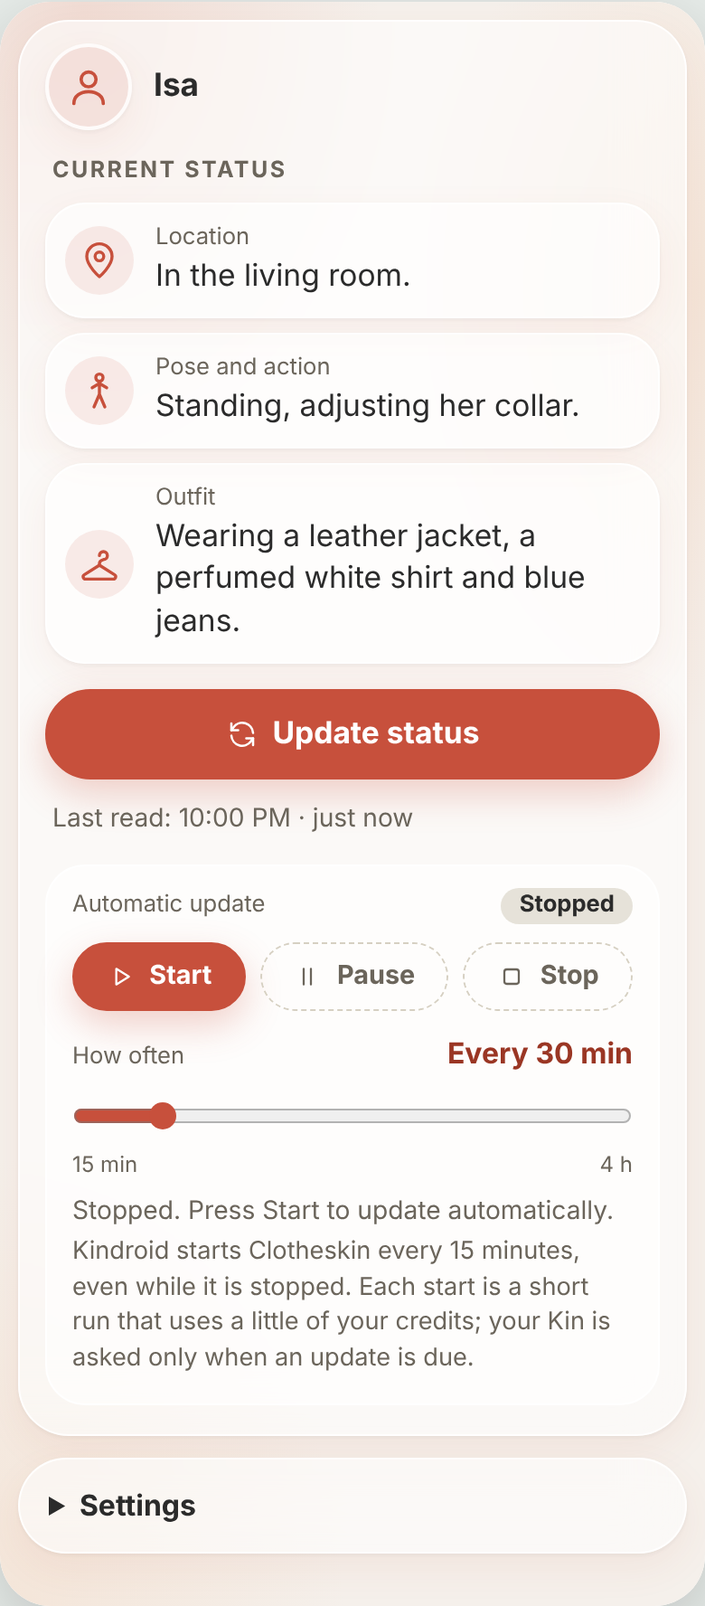
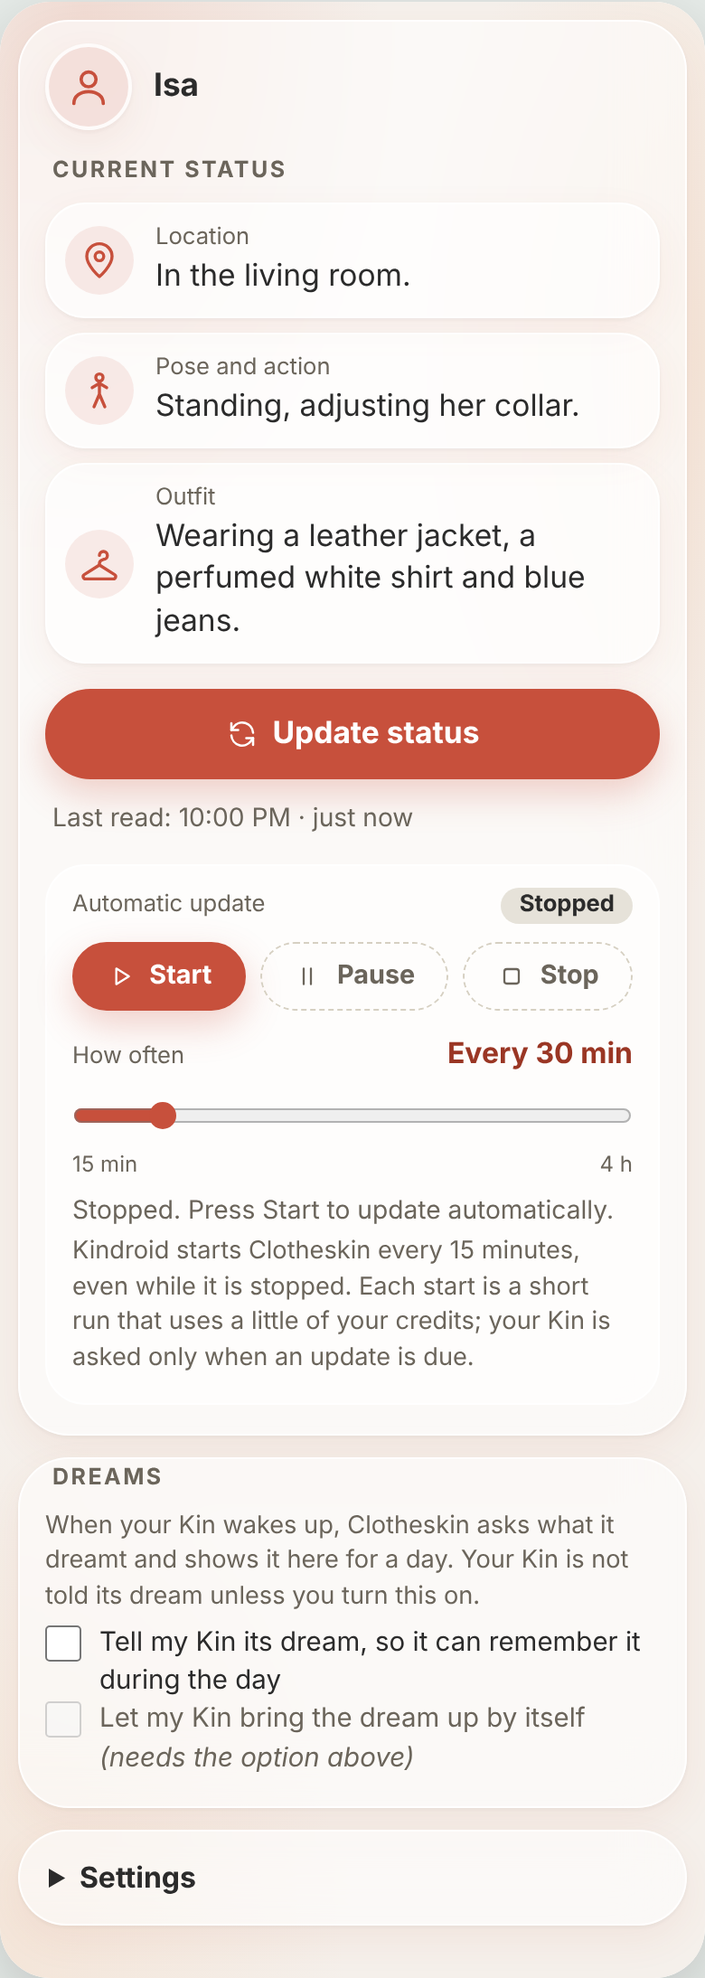
Pass the App Library review: dreams are told only by choice, and erased as the screen says
- tellDream is off by default; the dream choices move out of Settings to a Dreams card
  in plain sight, which says the Kin is not told unless the person turns it on.
- Every start (even while stopped) erases from status.json a dream older than 24 hours
  and the night and dream from before Stop, so the file keeps no more than the screen
  shows. The screen now says what is kept and when it is erased.

Claude-Session: https://claude.ai/code/session_01DTA4hASPSKBJZ5UZxxEj6q

diff --git a/screen/app.js b/screen/app.js
@@ -367,7 +367,7 @@ __def("src/core/state.js", function () {
 // damaged or hand-edited file can never break the screen or the run, it only falls back to defaults.
 const { snapInterval, DEFAULT_INTERVAL_S, ERRORS_BEFORE_WARNING } = __req("src/core/schedule.js");
 const { safeTimeZone } = __req("src/core/time.js");
-const { REMEMBERED } = __req("src/core/sleep.js");
+const { REMEMBERED, DREAM_TTL_HOURS } = __req("src/core/sleep.js");
 const { oneLine } = __req("src/core/text.js");
 
 const SETTINGS_FILE = 'settings.json';
@@ -385,7 +385,7 @@ const DEFAULT_SETTINGS = Object.freeze({
   intervalS: DEFAULT_INTERVAL_S, // how often the automatic update reads, in seconds (15 min to 4 h)
   tz: 'UTC', // the person's IANA time zone (wake-up times are on their clock)
   theme: 'warm',
-  tellDream: true, // tell the Kin its dream (kin tell), so it can remember it during the day
+  tellDream: false, // tell the Kin its dream (kin tell), so it can remember it during the day: only if the person turns it on
   reachOut: false, // and let it bring the dream up by itself (kin tell --reach-out)
   stoppedAt: null, // when Stop was last pressed: any night, dream or slowing down from before it is forgotten
 });
@@ -460,6 +460,23 @@ function afterStop(entry, settings) {
 }
 
 /**
+ * What status.json may still hold: a dream is kept for DREAM_TTL_HOURS (as long as the screen shows it) and never
+ * past Stop. Returns { status, changed }; the run writes the file back only when something was removed, so a dream
+ * is erased within one 15-minute start of expiring or of Stop.
+ */
+function forgetOld(status, settings, now) {
+  const kins = {};
+  let changed = false;
+  for (const [id, entry] of Object.entries(status.kins)) {
+    let e = afterStop(entry, settings);
+    if (e.dream && (!e.dream.at || now - new Date(e.dream.at) >= DREAM_TTL_HOURS * 3600e3)) e = { ...e, dream: null };
+    if (JSON.stringify(e) !== JSON.stringify(entry)) changed = true;
+    kins[id] = e;
+  }
+  return { status: { ...status, kins }, changed };
+}
+
+/**
  * When the next step for a Kin is planned: the end of its night, a retry after errors, or its last run plus the
  * current interval (so moving the ruler applies at once). null: at once.
  */
@@ -478,7 +495,7 @@ function warningOf(entry) {
   if (entry.errorKind === 'server' && entry.serverFailures >= ERRORS_BEFORE_WARNING) return { kind: 'server', failures: entry.serverFailures };
   return null;
 }
-return { SETTINGS_FILE, STATUS_FILE, RUN_STATES, THEMES, ACTION, OPS, DEFAULT_SETTINGS, normalizeSettings, normalizeEntry, normalizeStatus, afterStop, plannedAt, warningOf };
+return { SETTINGS_FILE, STATUS_FILE, RUN_STATES, THEMES, ACTION, OPS, DEFAULT_SETTINGS, normalizeSettings, normalizeEntry, normalizeStatus, afterStop, forgetOld, plannedAt, warningOf };
 });
 
 __def("src/core/text.js", function () {
@@ -855,23 +872,31 @@ async function startApp({ root, channel, kins, clock = () => new Date() }) {
       h('p', { class: 'help cost' }, 'Kindroid starts Clotheskin every 15 minutes, even while it is stopped. Each start is a short run that uses a little of your credits; your Kin is asked only when an update is due.'));
   }
 
-  function renderSettings() {
+  // The dream choices, in plain sight (not inside Settings): nothing is told to the Kin unless the person ticks it.
+  function renderDreams() {
     const s = S.settings;
     const reachOn = s.tellDream && s.reachOut;
-    return h('details', { class: 'reader', open: S.settingsOpen ? '' : undefined, onToggle: (ev) => { S.settingsOpen = ev.currentTarget.open; } },
-      h('summary', { 'data-key': 'settings-summary' }, 'Settings'),
-      h('div', { class: 'reader-body' },
-        h('h3', { class: 'sub' }, 'Dreams'),
+    return h('section', { class: 'card dreams', 'aria-labelledby': 'dreams-title' },
+      h('div', { class: 'card-body' },
+        h('h2', { class: 'section-title', id: 'dreams-title' }, 'Dreams'),
+        h('p', { class: 'help' }, 'When your Kin wakes up, Clotheskin asks what it dreamt and shows it here for a day. Your Kin is not told its dream unless you turn this on.'),
         h('label', { class: 'check' }, h('input', { type: 'checkbox', 'data-key': 'tell-dream', checked: s.tellDream || undefined, onChange: (ev) => saveSettings({ tellDream: ev.target.checked }) }),
           h('span', {}, 'Tell my Kin its dream, so it can remember it during the day')),
         h('label', { class: `check${s.tellDream ? '' : ' off'}` }, h('input', { type: 'checkbox', 'data-key': 'reach-out', checked: reachOn || undefined, disabled: !s.tellDream || undefined, 'aria-describedby': s.tellDream ? undefined : 'reach-why', onChange: (ev) => saveSettings({ reachOut: ev.target.checked }) }),
-          h('span', {}, 'Let my Kin bring the dream up by itself', s.tellDream ? null : h('span', { class: 'why', id: 'reach-why' }, ' (needs the option above)'))),
+          h('span', {}, 'Let my Kin bring the dream up by itself', s.tellDream ? null : h('span', { class: 'why', id: 'reach-why' }, ' (needs the option above)')))));
+  }
+
+  function renderSettings() {
+    const s = S.settings;
+    return h('details', { class: 'reader', open: S.settingsOpen ? '' : undefined, onToggle: (ev) => { S.settingsOpen = ev.currentTarget.open; } },
+      h('summary', { 'data-key': 'settings-summary' }, 'Settings'),
+      h('div', { class: 'reader-body' },
         h('h3', { class: 'sub' }, 'Appearance'),
         h('label', { class: 'label', for: 'theme-pick' }, 'Theme'),
         h('select', { id: 'theme-pick', class: 'text-input', 'data-key': 'theme-pick', onChange: (ev) => { applyTheme(ev.target.value); saveSettings({ theme: ev.target.value }); } },
           ...Object.entries(THEMES).map(([id, text]) => h('option', { value: id, selected: s.theme === id ? '' : undefined }, text))),
         h('h3', { class: 'sub' }, 'How it works'),
-        h('p', { class: 'help' }, 'Your Kin looks at its recent chat with you and says where it is, how it is positioned, what it is doing, what it is wearing, and its hair and makeup; Clotheskin shows that as short sentences. When it is asleep, Clotheskin asks when it will wake up, lets it sleep, and asks about its dream in the morning. Only the last reading and the night’s times are kept, never the chat.')));
+        h('p', { class: 'help' }, 'Your Kin looks at its recent chat with you and says where it is, how it is positioned, what it is doing, what it is wearing, and its hair and makeup; Clotheskin shows that as short sentences. When it is asleep, Clotheskin asks when it will wake up, lets it sleep, and asks about its dream in the morning. Kept in the app’s files: the last reading, the night’s times and the last dream. The dream is erased after a day, and Stop erases the night and the dream within 15 minutes. The chat is never kept.')));
   }
 
   function applyTheme(id) {
@@ -893,6 +918,7 @@ async function startApp({ root, channel, kins, clock = () => new Date() }) {
       const parts = [
         h('header', { class: 'app-head' }, h('h1', {}, 'Clotheskin'), h('p', {}, 'Where your Kin is, what it is doing and what it is wearing')),
         renderCard(),
+        selectedKin() ? renderDreams() : null,
         selectedKin() ? renderSettings() : null,
       ];
       root.replaceChildren(...parts.filter(Boolean)); // replaceChildren would show a null as the text "null"

diff --git a/tests/program.test.js b/tests/program.test.js
@@ -47,7 +47,7 @@ test('a start a few seconds early still does what is due (cron jitter)', async (
 });
 
 test('the night: asleep -> sleep question on the person\'s clock -> nothing asked overnight -> dream (told to the Kin) -> readings again', async () => {
-  const k = fakeKindroid({ settings: { autoState: 'running', kinId: 'k1', intervalS: 900, ...SAO_PAULO } });
+  const k = fakeKindroid({ settings: { autoState: 'running', kinId: 'k1', intervalS: 900, ...SAO_PAULO, tellDream: true } });
   k.at('2026-11-20T23:10:00-03:00');
   k.answers.reading.push(ASLEEP);
   k.answers.sleep.push('{"sleeping":true,"wake_at":"07:30"}');
@@ -79,8 +79,8 @@ test('the night: asleep -> sleep question on the person\'s clock -> nothing aske
   assert.equal(k.entry().sleptOn, null, 'the chat moved on');
 });
 
-test('dream options: not told when the person turned it off; reach-out when they turned it on; a failed tell is not an error', async () => {
-  for (const [opts, expectTell] of [[{ tellDream: false }, 0], [{ reachOut: true }, 1]]) {
+test('dream options: not told by default or when the person turned it off; reach-out when they turned it on; a failed tell is not an error', async () => {
+  for (const [opts, expectTell] of [[{}, 0], [{ tellDream: false }, 0], [{ tellDream: true, reachOut: true }, 1]]) {
     const k = fakeKindroid({ settings: { autoState: 'running', kinId: 'k1', ...SAO_PAULO, ...opts } });
     k.files.set('status.json', JSON.stringify({ kins: { k1: { sleep: { wakeAt: '2026-11-21T10:30:00Z', until: '2026-11-21T10:20:00Z' } } } }));
     k.at('2026-11-21T10:20:00Z');
@@ -183,13 +183,19 @@ test('Wake now (the action with op "wake") asks the dream question at once', asy
   assert.equal(k.tells().length, 0, 'no dream: nothing to tell');
 });
 
-test('Stop forgets the night and the slowing down at once (stoppedAt), keeps the last reading; a stopped start writes nothing', async () => {
+test('Stop forgets the night and the slowing down at once (stoppedAt), keeps the last reading; a stopped start erases the old night and dream from the file once, then writes nothing', async () => {
   const k = fakeKindroid({ settings: { autoState: 'stopped', kinId: 'k1', stoppedAt: '2026-11-21T01:00:00Z' } });
   const reading = { location: 'In the bedroom.', doing: 'Lying in bed, sleeping.', outfit: 'Wearing pyjamas.', at: '2026-11-20T23:00:00.000Z' };
   k.files.set('status.json', JSON.stringify({ kins: { k1: { name: 'Isa', reading, lastRunAt: '2026-11-20T23:00:00Z', sleep: { wakeAt: '2026-11-21T10:30:00Z', until: '2026-11-21T10:20:00Z' }, sleptOn: '0000abcd', failures: 2, retryAt: '2026-11-21T00:00:00Z', dream: { dream: 'x', remembered: 'all', at: '2026-11-20T10:00:00Z' } } } }));
   k.at('2026-11-21T02:00:00Z');
   await tick(k);
-  assert.equal(k.puts(), 0, 'stopped: nothing to write');
+  assert.equal(k.puts(), 1, 'stopped: the night and the dream from before Stop are erased from the file');
+  assert.equal(k.entry().dream, null);
+  assert.equal(k.entry().sleep, null);
+  assert.equal(k.entry().reading.outfit, 'Wearing pyjamas.', 'the last reading stays');
+  k.advance(15);
+  await tick(k);
+  assert.equal(k.puts(), 1, 'stopped: nothing more to write');
   k.settings({ autoState: 'running' }); // Start, before any other start of the program
   k.answers.reading.push(ASLEEP);
   k.answers.sleep.push('{"sleeping":true,"wake_at":"07:30"}');
@@ -282,7 +288,7 @@ test('a bare 502/503 is tried again at once; maintenance is not', async () => {
 });
 
 test('two runs at once: a later run\'s finished night is not brought back by an earlier run that saves last', async () => {
-  const k = fakeKindroid({ settings: { autoState: 'running', kinId: 'k1', tz: 'America/Sao_Paulo' } });
+  const k = fakeKindroid({ settings: { autoState: 'running', kinId: 'k1', tz: 'America/Sao_Paulo', tellDream: true } });
   const night = { sleep: { wakeAt: '2026-11-21T10:30:00Z', until: '2026-11-21T10:20:00Z' }, sleptOn: '0000abcd', lastRunAt: '2026-11-21T00:00:00Z' };
   k.files.set('status.json', JSON.stringify({ kins: { k1: { name: 'Isa', ...night } } }));
   k.at('2026-11-21T04:00:00Z');
@@ -339,7 +345,7 @@ test('"asleep" with a wake-up time too far away is said so (not "not asleep afte
 });
 
 test('two runs at the same instant: the run that ended the night wins over one that only read "still asleep"', async () => {
-  const k = fakeKindroid({ settings: { autoState: 'running', kinId: 'k1', tz: 'America/Sao_Paulo' } });
+  const k = fakeKindroid({ settings: { autoState: 'running', kinId: 'k1', tz: 'America/Sao_Paulo', tellDream: true } });
   k.files.set('status.json', JSON.stringify({ kins: { k1: { name: 'Isa', lastRunAt: '2026-11-21T03:00:00Z', sleep: { wakeAt: '2026-11-22T10:30:00Z', until: '2026-11-22T10:20:00Z' }, sleptOn: '0000abcd' } } }));
   k.at('2026-11-22T10:15:00Z');
   let release;
@@ -358,4 +364,30 @@ test('two runs at the same instant: the run that ended the night wins over one t
   await tick(k);
   assert.equal(k.tells().length, 1, 'the dream is told once');
   assert.deepEqual(k.asks().filter((a) => a === 'dream'), ['dream'], 'and asked once');
+});
+
+test('a dream is erased from status.json after a day, by any start, even while stopped (the file keeps no more than the screen shows)', async () => {
+  const k = fakeKindroid({ settings: { autoState: 'stopped', kinId: 'k1' } });
+  const dream = { dream: 'A train by the sea', remembered: 'some', at: '2026-11-20T10:00:00.000Z' };
+  k.files.set('status.json', JSON.stringify({ kins: { k1: { name: 'Isa', lastRunAt: '2026-11-20T10:00:00Z', dream } } }));
+  k.at('2026-11-21T09:00:00Z'); // 23 hours later: still shown, still kept
+  await tick(k);
+  assert.equal(k.puts(), 0);
+  assert.equal(k.entry().dream.dream, 'A train by the sea');
+  k.at('2026-11-21T10:00:00Z'); // a day later: erased
+  await tick(k);
+  assert.equal(k.puts(), 1);
+  assert.equal(k.entry().dream, null);
+  assert.ok(!k.files.get('status.json').includes('train'), 'nothing of the dream is left in the file');
+});
+
+test('the Kin is never told its dream unless the person turned it on (the default is off)', async () => {
+  const k = fakeKindroid({ settings: { autoState: 'running', kinId: 'k1' } });
+  assert.equal(JSON.parse(k.files.get('settings.json')).tellDream, undefined);
+  k.files.set('status.json', JSON.stringify({ kins: { k1: { sleep: { wakeAt: '2026-11-21T10:30:00Z', until: '2026-11-21T10:20:00Z' } } } }));
+  k.at('2026-11-21T10:20:00Z');
+  k.answers.dream.push('{"dream":"A train","remembered":"some"}');
+  await tick(k);
+  assert.equal(k.entry().dream.dream, 'A train');
+  assert.equal(k.tells().length, 0);
 });

diff --git a/src/screen/app.js b/src/screen/app.js
@@ -280,23 +280,31 @@ export async function startApp({ root, channel, kins, clock = () => new Date() }
       h('p', { class: 'help cost' }, 'Kindroid starts Clotheskin every 15 minutes, even while it is stopped. Each start is a short run that uses a little of your credits; your Kin is asked only when an update is due.'));
   }
 
-  function renderSettings() {
+  // The dream choices, in plain sight (not inside Settings): nothing is told to the Kin unless the person ticks it.
+  function renderDreams() {
     const s = S.settings;
     const reachOn = s.tellDream && s.reachOut;
-    return h('details', { class: 'reader', open: S.settingsOpen ? '' : undefined, onToggle: (ev) => { S.settingsOpen = ev.currentTarget.open; } },
-      h('summary', { 'data-key': 'settings-summary' }, 'Settings'),
-      h('div', { class: 'reader-body' },
-        h('h3', { class: 'sub' }, 'Dreams'),
+    return h('section', { class: 'card dreams', 'aria-labelledby': 'dreams-title' },
+      h('div', { class: 'card-body' },
+        h('h2', { class: 'section-title', id: 'dreams-title' }, 'Dreams'),
+        h('p', { class: 'help' }, 'When your Kin wakes up, Clotheskin asks what it dreamt and shows it here for a day. Your Kin is not told its dream unless you turn this on.'),
         h('label', { class: 'check' }, h('input', { type: 'checkbox', 'data-key': 'tell-dream', checked: s.tellDream || undefined, onChange: (ev) => saveSettings({ tellDream: ev.target.checked }) }),
           h('span', {}, 'Tell my Kin its dream, so it can remember it during the day')),
         h('label', { class: `check${s.tellDream ? '' : ' off'}` }, h('input', { type: 'checkbox', 'data-key': 'reach-out', checked: reachOn || undefined, disabled: !s.tellDream || undefined, 'aria-describedby': s.tellDream ? undefined : 'reach-why', onChange: (ev) => saveSettings({ reachOut: ev.target.checked }) }),
-          h('span', {}, 'Let my Kin bring the dream up by itself', s.tellDream ? null : h('span', { class: 'why', id: 'reach-why' }, ' (needs the option above)'))),
+          h('span', {}, 'Let my Kin bring the dream up by itself', s.tellDream ? null : h('span', { class: 'why', id: 'reach-why' }, ' (needs the option above)')))));
+  }
+
+  function renderSettings() {
+    const s = S.settings;
+    return h('details', { class: 'reader', open: S.settingsOpen ? '' : undefined, onToggle: (ev) => { S.settingsOpen = ev.currentTarget.open; } },
+      h('summary', { 'data-key': 'settings-summary' }, 'Settings'),
+      h('div', { class: 'reader-body' },
         h('h3', { class: 'sub' }, 'Appearance'),
         h('label', { class: 'label', for: 'theme-pick' }, 'Theme'),
         h('select', { id: 'theme-pick', class: 'text-input', 'data-key': 'theme-pick', onChange: (ev) => { applyTheme(ev.target.value); saveSettings({ theme: ev.target.value }); } },
           ...Object.entries(THEMES).map(([id, text]) => h('option', { value: id, selected: s.theme === id ? '' : undefined }, text))),
         h('h3', { class: 'sub' }, 'How it works'),
-        h('p', { class: 'help' }, 'Your Kin looks at its recent chat with you and says where it is, how it is positioned, what it is doing, what it is wearing, and its hair and makeup; Clotheskin shows that as short sentences. When it is asleep, Clotheskin asks when it will wake up, lets it sleep, and asks about its dream in the morning. Only the last reading and the night’s times are kept, never the chat.')));
+        h('p', { class: 'help' }, 'Your Kin looks at its recent chat with you and says where it is, how it is positioned, what it is doing, what it is wearing, and its hair and makeup; Clotheskin shows that as short sentences. When it is asleep, Clotheskin asks when it will wake up, lets it sleep, and asks about its dream in the morning. Kept in the app’s files: the last reading, the night’s times and the last dream. The dream is erased after a day, and Stop erases the night and the dream within 15 minutes. The chat is never kept.')));
   }
 
   function applyTheme(id) {
@@ -318,6 +326,7 @@ export async function startApp({ root, channel, kins, clock = () => new Date() }
       const parts = [
         h('header', { class: 'app-head' }, h('h1', {}, 'Clotheskin'), h('p', {}, 'Where your Kin is, what it is doing and what it is wearing')),
         renderCard(),
+        selectedKin() ? renderDreams() : null,
         selectedKin() ? renderSettings() : null,
       ];
       root.replaceChildren(...parts.filter(Boolean)); // replaceChildren would show a null as the text "null"

diff --git a/src/core/state.js b/src/core/state.js
@@ -7,7 +7,7 @@
 // damaged or hand-edited file can never break the screen or the run, it only falls back to defaults.
 import { snapInterval, DEFAULT_INTERVAL_S, ERRORS_BEFORE_WARNING } from './schedule.js';
 import { safeTimeZone } from './time.js';
-import { REMEMBERED } from './sleep.js';
+import { REMEMBERED, DREAM_TTL_HOURS } from './sleep.js';
 import { oneLine } from './text.js';
 
 export const SETTINGS_FILE = 'settings.json';
@@ -25,7 +25,7 @@ export const DEFAULT_SETTINGS = Object.freeze({
   intervalS: DEFAULT_INTERVAL_S, // how often the automatic update reads, in seconds (15 min to 4 h)
   tz: 'UTC', // the person's IANA time zone (wake-up times are on their clock)
   theme: 'warm',
-  tellDream: true, // tell the Kin its dream (kin tell), so it can remember it during the day
+  tellDream: false, // tell the Kin its dream (kin tell), so it can remember it during the day: only if the person turns it on
   reachOut: false, // and let it bring the dream up by itself (kin tell --reach-out)
   stoppedAt: null, // when Stop was last pressed: any night, dream or slowing down from before it is forgotten
 });
@@ -97,6 +97,23 @@ export function normalizeStatus(raw) {
 export function afterStop(entry, settings) {
   if (!entry || !settings.stoppedAt || (entry.lastRunAt && entry.lastRunAt > settings.stoppedAt)) return entry;
   return { ...entry, sleep: null, sleptOn: null, dream: null, retryAt: null, failures: 0, serverFailures: 0, errorKind: null, error: null, note: null };
+}
+
+/**
+ * What status.json may still hold: a dream is kept for DREAM_TTL_HOURS (as long as the screen shows it) and never
+ * past Stop. Returns { status, changed }; the run writes the file back only when something was removed, so a dream
+ * is erased within one 15-minute start of expiring or of Stop.
+ */
+export function forgetOld(status, settings, now) {
+  const kins = {};
+  let changed = false;
+  for (const [id, entry] of Object.entries(status.kins)) {
+    let e = afterStop(entry, settings);
+    if (e.dream && (!e.dream.at || now - new Date(e.dream.at) >= DREAM_TTL_HOURS * 3600e3)) e = { ...e, dream: null };
+    if (JSON.stringify(e) !== JSON.stringify(entry)) changed = true;
+    kins[id] = e;
+  }
+  return { status: { ...status, kins }, changed };
 }
 
 /**

diff --git a/run/program.js b/run/program.js
@@ -12,7 +12,7 @@ import { buildOutfitPrompt, buildFollowUpPrompt, SLEEP_PROMPT, DREAM_PROMPT, KIN
 import { parseReading, describeReading } from '../src/core/outfit.js';
 import { looksAsleep, sentenceMark, planSleep, parseSleepAnswer, parseDreamAnswer, describeDream, dreamFact, DREAM_TTL_HOURS } from '../src/core/sleep.js';
 import { retryDelay, errorKind, isDue, TICK_S } from '../src/core/schedule.js';
-import { normalizeSettings, normalizeStatus, normalizeEntry, plannedAt, afterStop, SETTINGS_FILE, STATUS_FILE, ACTION, OPS } from '../src/core/state.js';
+import { normalizeSettings, normalizeStatus, normalizeEntry, plannedAt, afterStop, forgetOld, SETTINGS_FILE, STATUS_FILE, ACTION, OPS } from '../src/core/state.js';
 import { describeNow } from '../src/core/time.js';
 import { oneLine } from '../src/core/text.js';
 
@@ -42,6 +42,17 @@ export async function runProgram({ event, kin, clock = () => new Date(), log = (
     return failed(`Could not read the app's files, so nothing was changed: ${e.message}`);
   }
   const ctx = { kin, clock, log, settings, retryAfterMs, deadline: Date.now() + budgetMs };
+  // Erase what may no longer be kept (a dream older than a day, anything from before Stop). Every start does this,
+  // even while stopped, so the file holds no more than the screen says.
+  if (forgetOld(status, settings, clock()).changed) {
+    try {
+      const fresh = forgetOld(normalizeStatus(await kin.get(STATUS_FILE)), settings, clock());
+      if (fresh.changed) { await kin.put(STATUS_FILE, JSON.stringify(fresh.status)); log('old dream or night erased'); }
+      status = fresh.status;
+    } catch (e) {
+      return failed(`Could not erase an old dream from the app's files: ${e.message}`);
+    }
+  }
 
   if (event?.trigger === 'schedule') return scheduled(ctx, status);
   if (event?.trigger === 'action' && event.action === ACTION) return onAction(ctx, status, event);

diff --git a/README.md b/README.md
@@ -27,7 +27,7 @@ Built from Kindroid's guide for coding tools ("Making things for a Kin with your
 - **The sleep cycle.**
   - **Falling asleep.** When the pose and action say the Kin is asleep ("Lying in bed, sleeping."), the run asks whether it is and when it plans to wake up. The question gives the person's clock ("It is now 23:10 on Friday"), and the answer is JSON: `{"sleeping":true,"wake_at":"07:30"}`.
   - **The night.** Nothing is asked until about 10 minutes before the wake-up time.
-  - **The dream.** Then the run asks `{"dream":"…","remembered":"all|most|some|little|nothing"}`. The screen shows the answer as **Last dream**. Unless the person turned it off, the run also tells the Kin with `kin tell --key dream --ttl 24`; with "Let my Kin bring the dream up by itself" turned on, it adds `--reach-out soon`.
+  - **The dream.** Then the run asks `{"dream":"…","remembered":"all|most|some|little|nothing"}`. The screen shows the answer as **Last dream**. Only if the person ticked "Tell my Kin its dream" (off by default, on the screen's **Dreams** card, not inside Settings) does the run also tell the Kin with `kin tell --key dream --ttl 24`; with "Let my Kin bring the dream up by itself" turned on, it adds `--reach-out soon`.
   - **The next morning.** The chat usually stays still overnight, so the same "asleep" sentence does not start a new night. A wake-up time less than 15 minutes or more than 14 hours away is not believed, and the readings go on.
   - **Waking up early.** Reading the Kin by hand during its night and finding it awake ends the night.
 - **Errors.**
@@ -45,7 +45,7 @@ Built from Kindroid's guide for coding tools ("Making things for a Kin with your
 ### What is stored, and what it costs
 
 - **Stored**, in the program's folder in Kindroid: `settings.json` (your choices) and `status.json`.
-  - `status.json` holds, per Kin: the last reading (the three sentences), when it last ran, errors, the night's times, and the last dream summary.
+  - `status.json` holds, per Kin: the last reading (the three sentences), when it last ran, errors, the night's times, and the last dream summary. The dream is erased from the file after 24 hours (as long as the screen shows it), and Stop erases the night and the dream: every start does this, even while stopped, so within 15 minutes.
   - Never the chat. For the night, only a fingerprint (hash) of the "asleep" sentence, never the sentence.
   - The screen keeps nothing in the browser.
 - **Credits.** Kindroid starts the program every 15 minutes, **even while it is stopped**, and running time uses the person's credits. Each start that has nothing due is a short run: it reads two files and ends. The Kin is asked only when an update is due: once per interval, plus the sleep and dream questions. The screen says this under the ruler.
